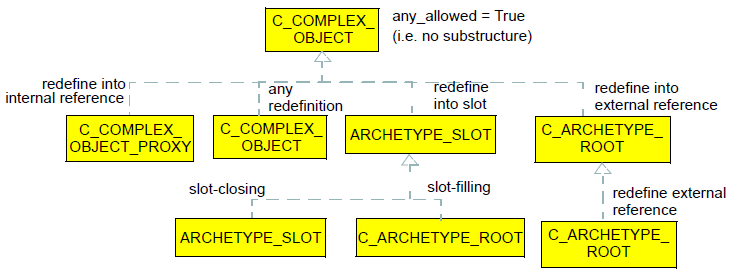
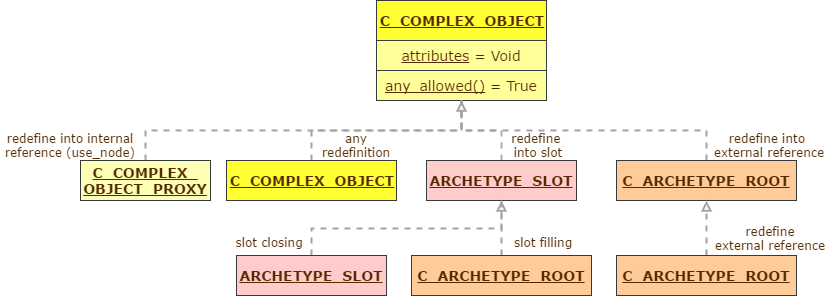
Update C_OBJECT substitutions diagram in AOM2 with one made in draw.io, as per SPECPUB-5 .

diff --git a/docs/AOM2/AOM2.html b/docs/AOM2/AOM2.html
@@ -389,7 +389,7 @@
 </thead>
 <tbody>
 <tr>
-<td class="tableblock halign-left valign-top"><p class="tableblock"><strong>Release</strong>: Release-2.0.6</p></td>
+<td class="tableblock halign-left valign-top"><p class="tableblock"><strong>Release</strong>: latest</p></td>
 <td class="tableblock halign-left valign-top"><p class="tableblock"><strong>Status</strong>: TRIAL</p></td>
 </tr>
 <tr>
@@ -1107,7 +1107,7 @@ Includes detailed input and review from:</p>
 <div class="sect2">
 <h3 id="_purpose"><a class="anchor" href="#_purpose"></a>1.1. Purpose</h3>
 <div class="paragraph">
-<p>This document contains the normative description of openEHR Archetype and Template semantics (originally described in <a href="#Beale_2000">[Beale_2000]</a> and <a href="#Beale_2002">[Beale_2002]</a>), in the form of an object model. The model presented here can be used as a basis for building software that represents archetypes and templates, independent of their persistent representation. Equally, it can be used to develop the output side of parsers that process archetypes in a linguistic format, such as the <a href="http://www.openehr.org/releases/AM/Release-2.0.6/ADL2.html">openEHR Archetype Definition Language (ADL)</a> , XML and so on.</p>
+<p>This document contains the normative description of openEHR Archetype and Template semantics (originally described in <a href="#Beale_2000">[Beale_2000]</a> and <a href="#Beale_2002">[Beale_2002]</a>), in the form of an object model. The model presented here can be used as a basis for building software that represents archetypes and templates, independent of their persistent representation. Equally, it can be used to develop the output side of parsers that process archetypes in a linguistic format, such as the <a href="http://www.openehr.org/releases/AM/latest/ADL2.html">openEHR Archetype Definition Language (ADL)</a> , XML and so on.</p>
 </div>
 <div class="paragraph">
 <p>It is recommended in any case that the ADL specification be read in conjunction with this document, since it contains a detailed explanation of the semantics of archetypes, and many of the examples are more obvious in ADL, regardless of whether ADL is actually used with the object model presented here or not.</p>
@@ -1149,7 +1149,7 @@ Includes detailed input and review from:</p>
 <p>The <a href="http://www.openehr.org/releases/BASE/latest/architecture_overview.html">openEHR Architecture Overview</a>;</p>
 </li>
 <li>
-<p>The <a href="http://www.openehr.org/releases/AM/Release-2.0.6/Overview.html">openEHR Archetypes Technical Overview</a>.</p>
+<p>The <a href="http://www.openehr.org/releases/AM/latest/Overview.html">openEHR Archetypes Technical Overview</a>.</p>
 </li>
 <li>
 <p>The <a href="http://www.openehr.org/releases/BASE/latest/base_types.html">openEHR Base Types Specification</a>.</p>
@@ -1162,10 +1162,10 @@ Includes detailed input and review from:</p>
 <div class="ulist">
 <ul>
 <li>
-<p>The <a href="http://www.openehr.org/releases/AM/Release-2.0.6/ADL2.html">openEHR Archetype Definition Language 2 Specification</a>;</p>
+<p>The <a href="http://www.openehr.org/releases/AM/latest/ADL2.html">openEHR Archetype Definition Language 2 Specification</a>;</p>
 </li>
 <li>
-<p>The <a href="http://www.openehr.org/releases/AM/Release-2.0.6/OPT2.html">openEHR Operational Template Specification</a>.</p>
+<p>The <a href="http://www.openehr.org/releases/AM/latest/OPT2.html">openEHR Operational Template Specification</a>.</p>
 </li>
 </ul>
 </div>
@@ -1182,7 +1182,7 @@ Includes detailed input and review from:</p>
 <div class="sect2">
 <h3 id="_status"><a class="anchor" href="#_status"></a>1.4. Status</h3>
 <div class="paragraph">
-<p>This specification is in the TRIAL state. The development version of this document can be found at <a href="http://www.openehr.org/releases/AM/Release-2.0.6/AOM2.html" class="bare">http://www.openehr.org/releases/AM/Release-2.0.6/AOM2.html</a>.</p>
+<p>This specification is in the TRIAL state. The development version of this document can be found at <a href="http://www.openehr.org/releases/AM/latest/AOM2.html" class="bare">http://www.openehr.org/releases/AM/latest/AOM2.html</a>.</p>
 </div>
 <div class="paragraph">
 <p>Known omissions or questions are indicated in the text with a 'to be determined' paragraph, as follows:</p>
@@ -1550,7 +1550,7 @@ the above types do not constitute a formal part of this specification. Any imple
 <p>For specialised archetypes, the <code><em>parent_archetype_id</em></code> is also required. This is a string <code><em>reference</em></code> to an archetype, and is normally the 'interface' form of the id, i.e. down to the major version only. In some circumstances, it is useful to include the minor and patch version numbers as well.</p>
 </div>
 <div class="paragraph">
-<p>An important aspect of identification relates to the rules governing when when the HRID namespace changes or is retained, with respect to when 'moves' or 'forks' occur. Its value is always the same as one of the <code><em>original_namespace</em></code> and <code><em>custodian_namespace</em></code> properties inherited from <code>AUTHORED_RESOURCE</code>.<code><em>description</em></code> (or both, in the case where they are the same). A full explanation of the identification system and rules is given in the openEHR <a href="http://www.openehr.org/releases/AM/Release-2.0.6/Identification.html">Archetype Identification specification</a>.</p>
+<p>An important aspect of identification relates to the rules governing when when the HRID namespace changes or is retained, with respect to when 'moves' or 'forks' occur. Its value is always the same as one of the <code><em>original_namespace</em></code> and <code><em>custodian_namespace</em></code> properties inherited from <code>AUTHORED_RESOURCE</code>.<code><em>description</em></code> (or both, in the case where they are the same). A full explanation of the identification system and rules is given in the openEHR <a href="http://www.openehr.org/releases/AM/latest/Identification.html">Archetype Identification specification</a>.</p>
 </div>
 </div>
 <div class="sect3">
@@ -1587,7 +1587,7 @@ the above types do not constitute a formal part of this specification. Any imple
 <div class="sect3">
 <h4 id="_adl_version"><a class="anchor" href="#_adl_version"></a>3.3.1. ADL Version</h4>
 <div class="paragraph">
-<p>The <code>ARCHETYPE</code>.<code><em>adl_version</em></code> attribute in ADL 1.4 was used to indicate the ADL release used in the archetype source file from which the AOM structure was created (the version number comes from the revision history of the <a href="http://www.openehr.org/releases/AM/Release-2.0.6/ADL2.html">ADL specification</a>. In the current and future AOM and ADL specifications, the meaning of this attribute is generalised to mean 'the version of the archetype formalism' in which the current archetype is expressed. For reasons of convenience, the version number is still taken from the ADL specification, but now refers to all archetype-related specifications together, since they are always updated in a synchronised fashion.</p>
+<p>The <code>ARCHETYPE</code>.<code><em>adl_version</em></code> attribute in ADL 1.4 was used to indicate the ADL release used in the archetype source file from which the AOM structure was created (the version number comes from the revision history of the <a href="http://www.openehr.org/releases/AM/latest/ADL2.html">ADL specification</a>. In the current and future AOM and ADL specifications, the meaning of this attribute is generalised to mean 'the version of the archetype formalism' in which the current archetype is expressed. For reasons of convenience, the version number is still taken from the ADL specification, but now refers to all archetype-related specifications together, since they are always updated in a synchronised fashion.</p>
 </div>
 </div>
 <div class="sect3">
@@ -1631,7 +1631,7 @@ the above types do not constitute a formal part of this specification. Any imple
 <div class="sect4">
 <h5 id="_lifecycle_state"><a class="anchor" href="#_lifecycle_state"></a>3.4.1.2. Lifecycle_state</h5>
 <div class="paragraph">
-<p>The <code><em>description</em></code>.<code><em>lifecycle_state</em></code> is an important property of an archetype, which is used to record its state in a defined lifecycle. The lifecycle state machine and versioning rules are explained fully in the openEHR <a href="http://www.openehr.org/releases/AM/Release-2.0.6/Identification.html">Archetype Identification specification</a>. Here we simply note that the value of the property is a coded term corresponding to one of the macro-state names on the diagram, i.e. 'unmanaged', 'in_development', and so on.</p>
+<p>The <code><em>description</em></code>.<code><em>lifecycle_state</em></code> is an important property of an archetype, which is used to record its state in a defined lifecycle. The lifecycle state machine and versioning rules are explained fully in the openEHR <a href="http://www.openehr.org/releases/AM/latest/Identification.html">Archetype Identification specification</a>. Here we simply note that the value of the property is a coded term corresponding to one of the macro-state names on the diagram, i.e. 'unmanaged', 'in_development', and so on.</p>
 </div>
 </div>
 <div class="sect4">
@@ -2987,7 +2987,7 @@ It is the parent class of all concrete types of archetype.</p>
 <div class="sect4">
 <h5 id="_rm_type_name_and_reference_model_type_matching"><a class="anchor" href="#_rm_type_name_and_reference_model_type_matching"></a>4.2.3.1. Rm_type_name and Reference Model Type Matching</h5>
 <div class="paragraph">
-<p>Every object node has an <code><em>rm_type_name</em></code> attribute that states the RM type to be matched by that node in the archetype. The value of <code><em>rm_type_name</em></code> is understood as a constraint on the dynamic type of data <em>instances</em> of the stated Reference Model type. It is either a class name from the RM, or a generic type constructed from RM class names, as described in the <a href="http://www.openehr.org/releases/AM/Release-2.0.6/ADL2.html#_reference_model_type_matching">Reference model type matching</a> section of the ADL2 specification.</p>
+<p>Every object node has an <code><em>rm_type_name</em></code> attribute that states the RM type to be matched by that node in the archetype. The value of <code><em>rm_type_name</em></code> is understood as a constraint on the dynamic type of data <em>instances</em> of the stated Reference Model type. It is either a class name from the RM, or a generic type constructed from RM class names, as described in the <a href="http://www.openehr.org/releases/AM/latest/ADL2.html#_reference_model_type_matching">Reference model type matching</a> section of the ADL2 specification.</p>
 </div>
 <div class="paragraph">
 <p>The RM type stated in an archetype object node is understood to be a <em>static</em> type constraint. Accordingly, it will match an instance of any RM <em>subtype</em> of the stated type, as long as the inheritance relationship is stated in the RM definition. This holds both for sub-classes, and subtypes of generic types, in a covariant fashion. The following matching will thus succeed:</p>
@@ -3157,7 +3157,7 @@ It is the parent class of all concrete types of archetype.</p>
                                                 String (ADL pattern)</p></td>
 <td class="tableblock halign-left valign-top"><p class="tableblock">As for ordered types, with T being an sub-type type of <code>Temporal</code>, an
                                                                                 ancestor of the assumed Date/time primitive types., with the addition of a
-                                                                                second type constraint -                                                                                                                             <a href="http://www.openehr.org/releases/AM/Release-2.0.6/ADL2.html#_constraints_on_dates_times_and_durations">a pattern based on ISO8601 syntax</a>.</p></td>
+                                                                                second type constraint -                                                                                                                             <a href="http://www.openehr.org/releases/AM/latest/ADL2.html#_constraints_on_dates_times_and_durations">a pattern based on ISO8601 syntax</a>.</p></td>
 </tr>
 <tr>
 <td class="tableblock halign-left valign-top"><p class="tableblock"><code>C_DATE</code></p></td>
@@ -3354,7 +3354,7 @@ Since an archetype might not contain external terminology bindings for all (or e
 <p>In this model, the type <code>C_ATTRIBUTE_TUPLE</code> groups the co-constrained <code>C_ATTRIBUTEs</code> under a <code>C_COMPLEX_OBJECT</code>. Currently the concrete type is limited to being <code>C_PRIMITIVE_OBJECT</code> to reduce complexity, and since it caters for all known examples of tuple constraints. In principle, any <code>C_DEFINED_OBJECT</code> could be allowed, and this may change in the future.</p>
 </div>
 <div class="paragraph">
-<p>The tuple constraint type replaces all domain-specific constraint types defined in <a href="http://www.openehr.org/releases/AM/Release-2.0.6/ADL1.4.html">ADL/AOM 1.4</a>, including <code>C_DV_QUANTITY</code> and <code>C_DV_ORDINAL</code>.</p>
+<p>The tuple constraint type replaces all domain-specific constraint types defined in <a href="http://www.openehr.org/releases/AM/latest/ADL1.4.html">ADL/AOM 1.4</a>, including <code>C_DV_QUANTITY</code> and <code>C_DV_ORDINAL</code>.</p>
 </div>
 <div class="paragraph">
 <p>These additions allow standard constraint structures (i.e. <code>C_ATTRIBUTE</code> / <code>C_COMPLEX_OBJECT</code> / <code>C_PRIMITIVE_OBJECT</code> hierarchies) to be 'annotated', while leaving the first order structure intact. The following example shows an archetype instance structure in which a notional <code>ORDINAL</code> type is constrained. The logical requirement is to constrain a <code>ORDINAL</code> to one of three instance possibilities, each of which consists of a pair of values for the attributes value and symbol, of type Integer and <code>TERMINOLOGY_CODE</code> respectively. Each of these three instance constraints should be understood as an alternative for the single valued owning attribute, <code>ELEMENT</code> .value. Tuple constraints achieve the requirement to express the constraints as pairs not just as allowable alternatives at the final leaf level, which would incorrectly allowing any mixing of the Integer and code values.</p>
@@ -3375,7 +3375,7 @@ Since an archetype might not contain external terminology bindings for all (or e
 <div class="sect3">
 <h4 id="_assertions"><a class="anchor" href="#_assertions"></a>4.3.2. Assertions</h4>
 <div class="paragraph">
-<p>Assertions are also used in <code>ARCHETYPE_SLOTs</code> , in order to express the 'included' and 'excluded' archetypes for the slot. In this case, each assertion is an expression that refers to parts of other archetypes, such as its identifier (e.g. 'include archetypes with <code><em>short_concept_name</em></code> matching <code>xxxx</code> '). Assertions are modelled here as a generic expression tree of unary prefix and binary infix operators. Examples of archetype slots in ADL syntax are given in the openEHR <a href="http://www.openehr.org/releases/AM/Release-2.0.6/ADL2.html">ADL specification</a>.</p>
+<p>Assertions are also used in <code>ARCHETYPE_SLOTs</code> , in order to express the 'included' and 'excluded' archetypes for the slot. In this case, each assertion is an expression that refers to parts of other archetypes, such as its identifier (e.g. 'include archetypes with <code><em>short_concept_name</em></code> matching <code>xxxx</code> '). Assertions are modelled here as a generic expression tree of unary prefix and binary infix operators. Examples of archetype slots in ADL syntax are given in the openEHR <a href="http://www.openehr.org/releases/AM/latest/ADL2.html">ADL specification</a>.</p>
 </div>
 </div>
 </div>
@@ -3386,7 +3386,7 @@ Since an archetype might not contain external terminology bindings for all (or e
 </div>
 <div id="c_object_substitutions" class="imageblock text-center" style="text-align: center">
 <div class="content">
-<img src="diagrams/c_object_substitutions.png" alt="c object substitutions">
+<img src="diagrams/c_object_substitutions.svg" alt="c object substitutions">
 </div>
 <div class="title">Figure 21. C_Object Substitutions</div>
 </div>
@@ -4052,7 +4052,7 @@ Typically used to test if an inherited node locally contains any constraints.</p
 <p>The notion of 'occurrences' does not exist in an object model that might be used as the reference model on which archteypes are based, because it is a class model. However, archetypes commonly constrain the occurrences of object nodes under a container attribute, indicating how many objects conforming to a specific object constraint node might exist.</p>
 </div>
 <div class="paragraph">
-<p>There are various circumstances where it is useful to know the effective occurrences of an archetype object node. One is in validation, in order to determine validity of occurrences constraints; another is in archetype editor tools. Similarly, in an <a href="http://www.openehr.org/releases/AM/Release-2.0.6/OPT2.html">operational template</a>, an occurrences constraint is required on all child object nodes of container attributes. Most such constraints come from the source template(s) and archetypes, but often there will be nodes with no occurrences set. In these cases, the occurrences constraint is inferred from the archetype and the reference model according to the following algorithm, where <code>c_object</code> represents any object node in an archetype.</p>
+<p>There are various circumstances where it is useful to know the effective occurrences of an archetype object node. One is in validation, in order to determine validity of occurrences constraints; another is in archetype editor tools. Similarly, in an <a href="http://www.openehr.org/releases/AM/latest/OPT2.html">operational template</a>, an occurrences constraint is required on all child object nodes of container attributes. Most such constraints come from the source template(s) and archetypes, but often there will be nodes with no occurrences set. In these cases, the occurrences constraint is inferred from the archetype and the reference model according to the following algorithm, where <code>c_object</code> represents any object node in an archetype.</p>
 </div>
 <div class="listingblock">
 <div class="content">
@@ -6958,7 +6958,7 @@ Hash of keys ("text", "description" etc) and corresponding values.</p>
 <h2 id="_templates"><a class="anchor" href="#_templates"></a>9. Templates</h2>
 <div class="sectionbody">
 <div class="paragraph">
-<p>Within the Archetype formalism, a template is used to aggregate and refine archetypes, to produce a structure corresponding to a particular data set. Templates thus provide a way to use archetypes for specific purposes, while the archetypes contain <em>possible</em> data items, not linked to specific purposes. See the <a href="http://www.openehr.org/releases/AM/Release-2.0.6/ADL2.html#_templates">ADL2 specification, Templates section</a> for a detailed description of template semantics.</p>
+<p>Within the Archetype formalism, a template is used to aggregate and refine archetypes, to produce a structure corresponding to a particular data set. Templates thus provide a way to use archetypes for specific purposes, while the archetypes contain <em>possible</em> data items, not linked to specific purposes. See the <a href="http://www.openehr.org/releases/AM/latest/ADL2.html#_templates">ADL2 specification, Templates section</a> for a detailed description of template semantics.</p>
 </div>
 <div class="paragraph">
 <p>Templates are formally defined as specialised archetypes, via the <code>TEMPLATE</code> and <code>TEMPLATE_OVERLAY</code> classes shown in <a href="#archetype_package">Archetype Package</a>. This means that all the formal characteristics of a template are defined by the openEHR Archetype Object Model (AOM) and Archetype Definition Language (ADL) specifications apply to templates. This includes the meta-data (inherited from the <code>AUTHORED_RESOURCE</code> class), specialisation semantics (templates can be specialised into other templates), <code>terminology</code> section (allowing multi-lingual local term definitions and external terminology bindings) as well as the <code>rules</code> and <code>annotations</code> sections.</p>
@@ -6972,7 +6972,7 @@ Hash of keys ("text", "description" etc) and corresponding values.</p>
 <div class="ulist">
 <ul>
 <li>
-<p>slot-filling - achieved by specialisation, as described in the <a href="http://www.openehr.org/releases/AM/Release-2.0.6/ADL2.html#_slot_filling_and_redefinition">ADL specification</a>;</p>
+<p>slot-filling - achieved by specialisation, as described in the <a href="http://www.openehr.org/releases/AM/latest/ADL2.html#_slot_filling_and_redefinition">ADL specification</a>;</p>
 </li>
 <li>
 <p>specifying <code>{0..0}</code> constraints to remove elements not needed from the referenced archetypes;</p>
@@ -7474,7 +7474,7 @@ Hash of keys ("text", "description" etc) and corresponding values.</p>
 <div class="sect2">
 <h3 id="_aom_lifecycle_state_mappings"><a class="anchor" href="#_aom_lifecycle_state_mappings"></a>10.5. AOM Lifecycle State Mappings</h3>
 <div class="paragraph">
-<p>Another kind of useful mapping adjustment that can help to make tools process archetypes in a more homogeneous way is to do with the AOM life-cycle states, which are standardised in the <a href="http://www.openehr.org/releases/AM/Release-2.0.6/Identification.html">openEHR Archetype Identification specification</a>. These states denote the state of a whole archetype in its authoring life cycle. Historically however there were no standard names, with the consequence that various archetype tools implement their own local lifecycle state names. To adjust for this the <code><em>aom_lifecycle_mappings</em></code> property in the <code>AOM_PROFILE</code> class can be used. These mappings have the effect of replacing the current value of the <code><em>lifecycle_state</em></code> property of the <code>RESOURCE_DESCRIPTION</code> instance of a parsed archetype with an openEHR standard state name. A typical example of the <code>description</code> section of an archetype with a local lifecycle state name is below.</p>
+<p>Another kind of useful mapping adjustment that can help to make tools process archetypes in a more homogeneous way is to do with the AOM life-cycle states, which are standardised in the <a href="http://www.openehr.org/releases/AM/latest/Identification.html">openEHR Archetype Identification specification</a>. These states denote the state of a whole archetype in its authoring life cycle. Historically however there were no standard names, with the consequence that various archetype tools implement their own local lifecycle state names. To adjust for this the <code><em>aom_lifecycle_mappings</em></code> property in the <code>AOM_PROFILE</code> class can be used. These mappings have the effect of replacing the current value of the <code><em>lifecycle_state</em></code> property of the <code>RESOURCE_DESCRIPTION</code> instance of a parsed archetype with an openEHR standard state name. A typical example of the <code>description</code> section of an archetype with a local lifecycle state name is below.</p>
 </div>
 <div class="listingblock">
 <div class="content">
